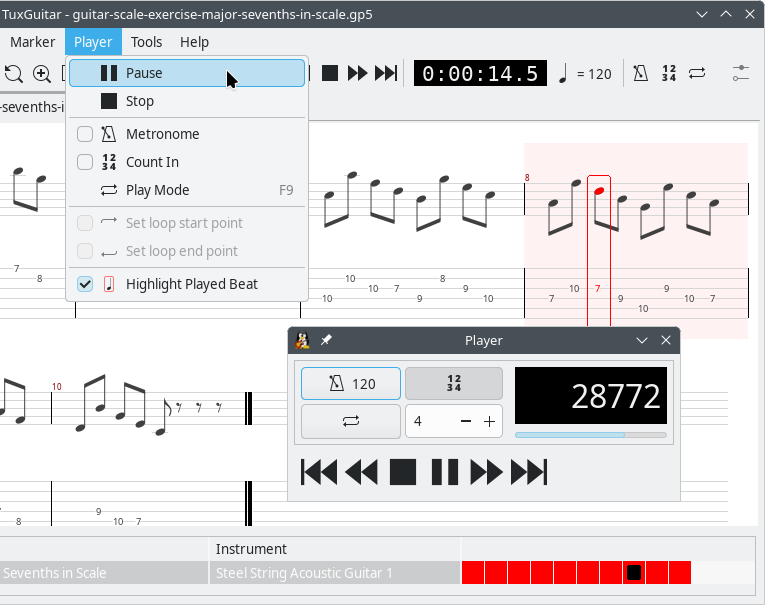
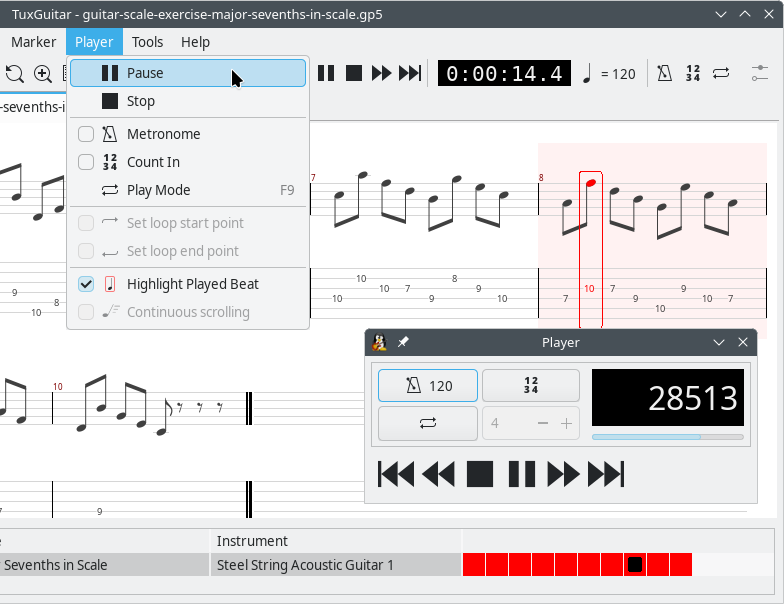
Update help and de/it translations for continuous scrolling

diff --git a/desktop/TuxGuitar/share/help/detail_markers_player.html b/desktop/TuxGuitar/share/help/detail_markers_player.html
@@ -79,6 +79,9 @@
     <p>Training mode gives you the opportunity to practice with a gradual tempo incrementation. You can choose to start slowly, in only half of a tempo, but in every cycle of the tune to increase the tempo by 5%, getting to the full speed after 10 playbacks. You choose a <em>beginning tempo</em>, <em>ending tempo</em> and an <em>increment</em> (in percentage) that increases the tempo after each cycle.</p>
     <h2 id="play_highlight">Highlight Played Beat</h2>
     <p>As you can see in the snapshot of the TuxGuitar main window above, the currently playing measure gets a red background, the beat is highlighted in red and has a frame around it. You can switch the frame on or off via the menu <strong>Player → Highlight Played Beat</strong> or define a corresponding keyboard command under <strong><a href="tools_keybinding.html">Tools → Shortcuts</a></strong>. The color of the highlighting can be changed under <strong>Tools → Settings → Styles</strong>.</p>
+    <h2 id="play_continuous">Scrolling behavior during playback</h2>
+    <p>By default, the tablature scrolls forward one page each time playback reaches the end of the visible area (discrete scrolling). If you select <strong>Player → Continuous scrolling</strong>, the tablature scrolls continuously so that the playing measure always remains within the visible tablature area. This feature requires sufficient processing power for smooth scrolling.</p>
+    <p>You can customize the behavior of both scrolling modes with the scrolling.discrete.* and scrolling.continuous.* parameters in the <a href="tools_install_conf.html#config">tuxguitar.cfg</a></strong> file.</p>
   </section>
 </body>
 </html>
